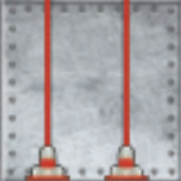
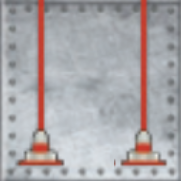
added instanceof double and triple lasers

Changed region(s): [[0.5525, 0.0, 0.9392, 1.0], [0.0829, 0.0, 0.4144, 1.0]]

diff --git a/src/main/java/dk/dtu/compute/se/pisd/roborally/view/SpaceView.java b/src/main/java/dk/dtu/compute/se/pisd/roborally/view/SpaceView.java
@@ -271,7 +271,7 @@ public class SpaceView extends StackPane implements ViewObserver {
             }
             if (action instanceof Lasers) {
                 Lasers laser = (Lasers) action;
-                ImageView laserImageView = addImage("images/SingleLaserON.png");
+                ImageView laserImageView = addImage("images/SingleLasersON.png");
                 rotateImage(laserImageView, laser.getHeading());
             }
             if (action instanceof DoubleLasers) {
